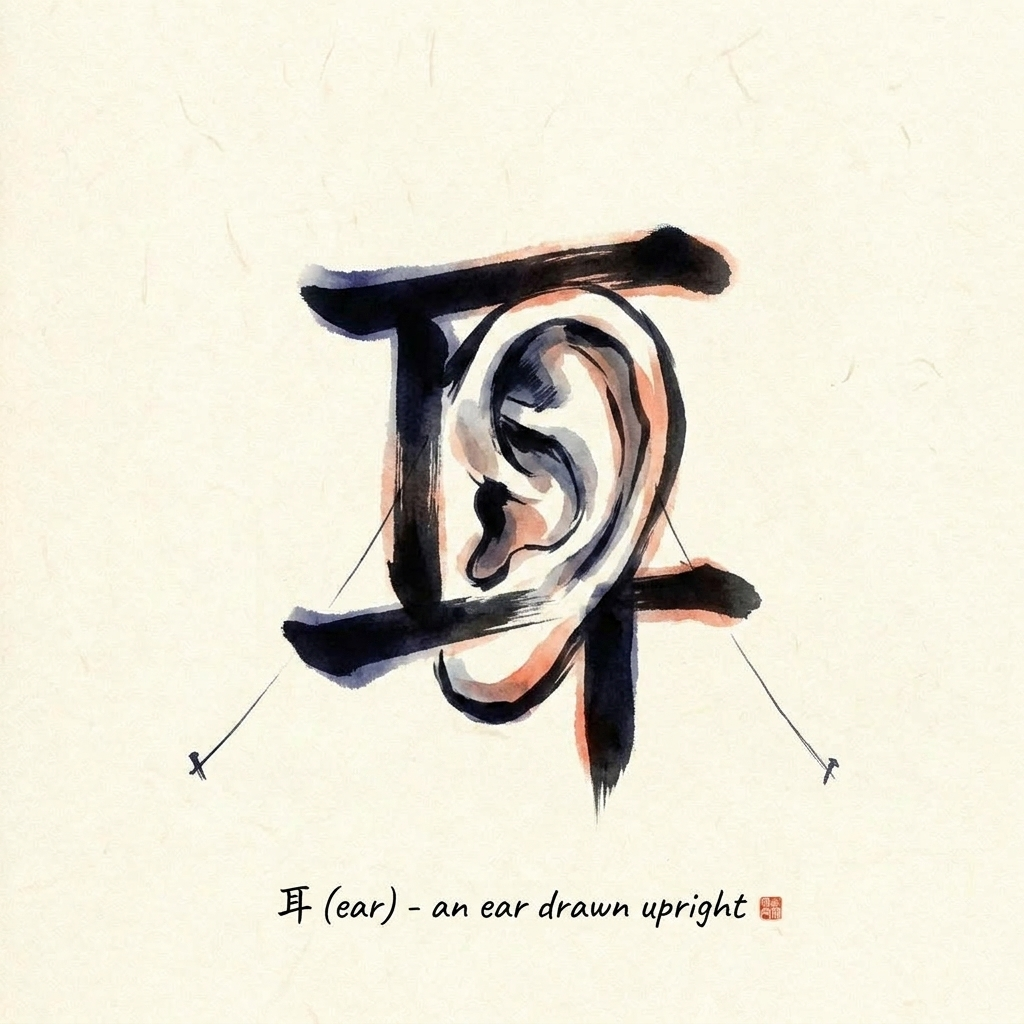
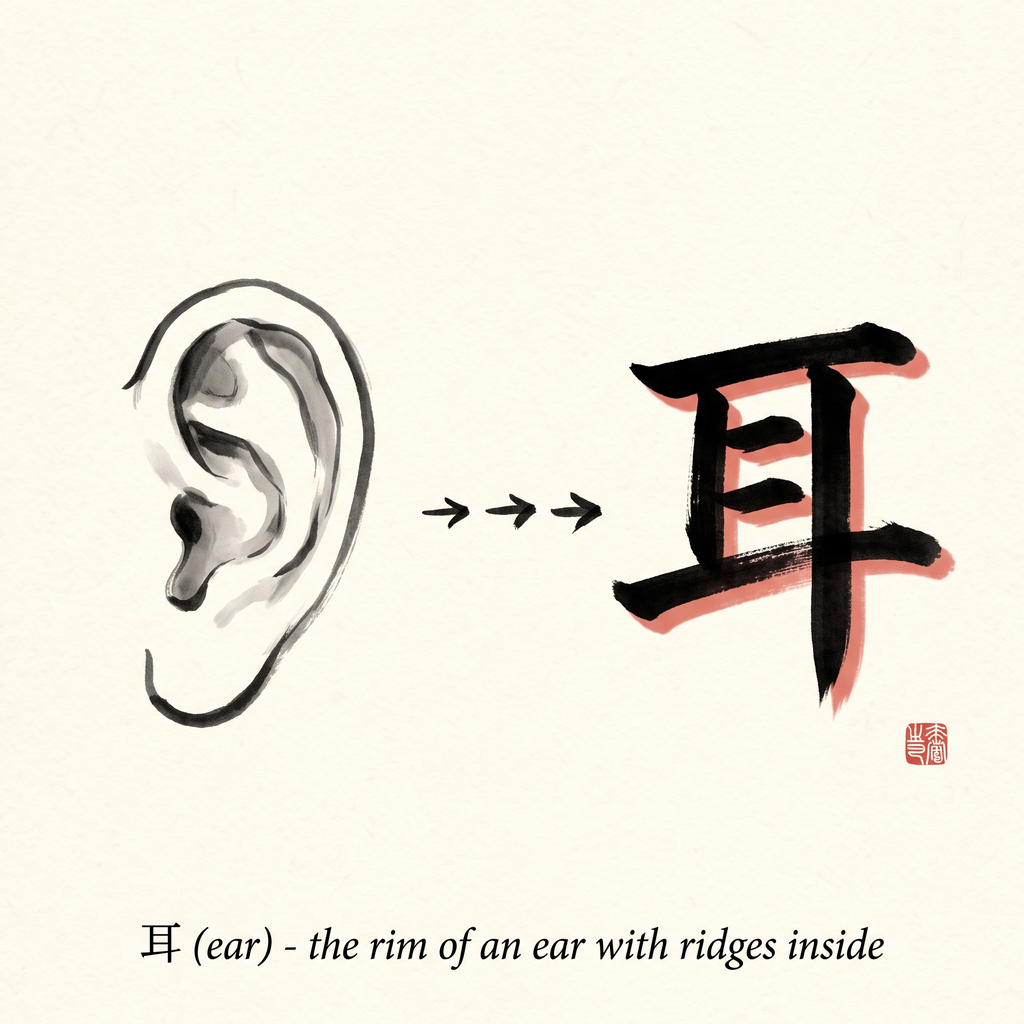
Refine body-part kanji mnemonics (手足耳) with morph-style art
Rewrite the 手/足/耳 mnemonic and component text with sharper,
truer metaphors, and regenerate the three images as before→after
morphs: a clean ink drawing of the real body part transforming
into the crisp kanji, so the character stays legible instead of
being fused into the brushstrokes.

diff --git a/src/data/kanji.ts b/src/data/kanji.ts
@@ -705,8 +705,9 @@ export const kanji: KanjiChar[] = [
     kunyomi: ["て"],
     romaji: "te",
     group: "body",
-    components: "a wrist with fingers",
-    mnemonic: "A wrist with lines fanning out into fingers: hand.",
+    components: "three fingers over a hooked wrist",
+    mnemonic:
+      "Three fingers raised high above a wrist that curls into a hook at the base — a hand thrown up to volunteer: hand.",
     mnemonicImage: "mnemonics/kanji-hand.png",
     exampleWord: "上手",
     exampleReading: "じょうず",
@@ -721,9 +722,9 @@ export const kanji: KanjiChar[] = [
     kunyomi: ["あし", "た.りる"],
     romaji: "ashi",
     group: "body",
-    components: "a mouth 口 over a bent leg",
+    components: "a knee 口 over a planted foot",
     mnemonic:
-      "A kneecap 口 above a bent leg and foot ready to step: foot, leg.",
+      "A round knee 口 riding above a foot planted mid-stride — the whole leg read from knee to sole: foot, leg.",
     mnemonicImage: "mnemonics/kanji-foot.png",
     exampleWord: "足",
     exampleReading: "あし",
@@ -737,8 +738,9 @@ export const kanji: KanjiChar[] = [
     kunyomi: ["みみ"],
     romaji: "mimi",
     group: "body",
-    components: "an ear drawn upright",
-    mnemonic: "An ear stood on end, the ridges drawn as lines inside: ear.",
+    components: "the rim of an ear with ridges inside",
+    mnemonic:
+      "The tall rim of an ear framing folds of cartilage, the last stroke slipping down into the lobe: ear.",
     mnemonicImage: "mnemonics/kanji-ear.png",
     exampleWord: "耳",
     exampleReading: "みみ",
